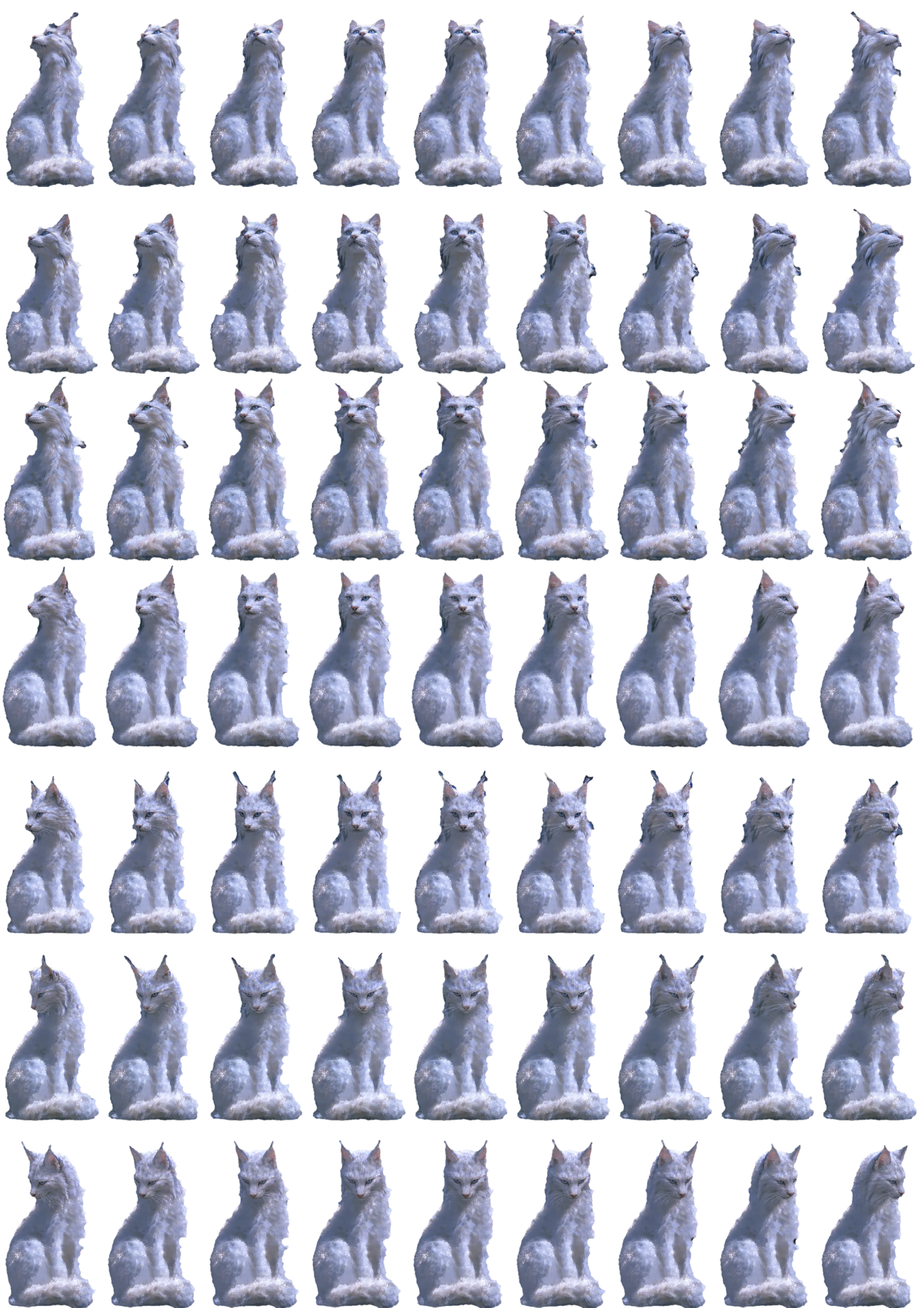
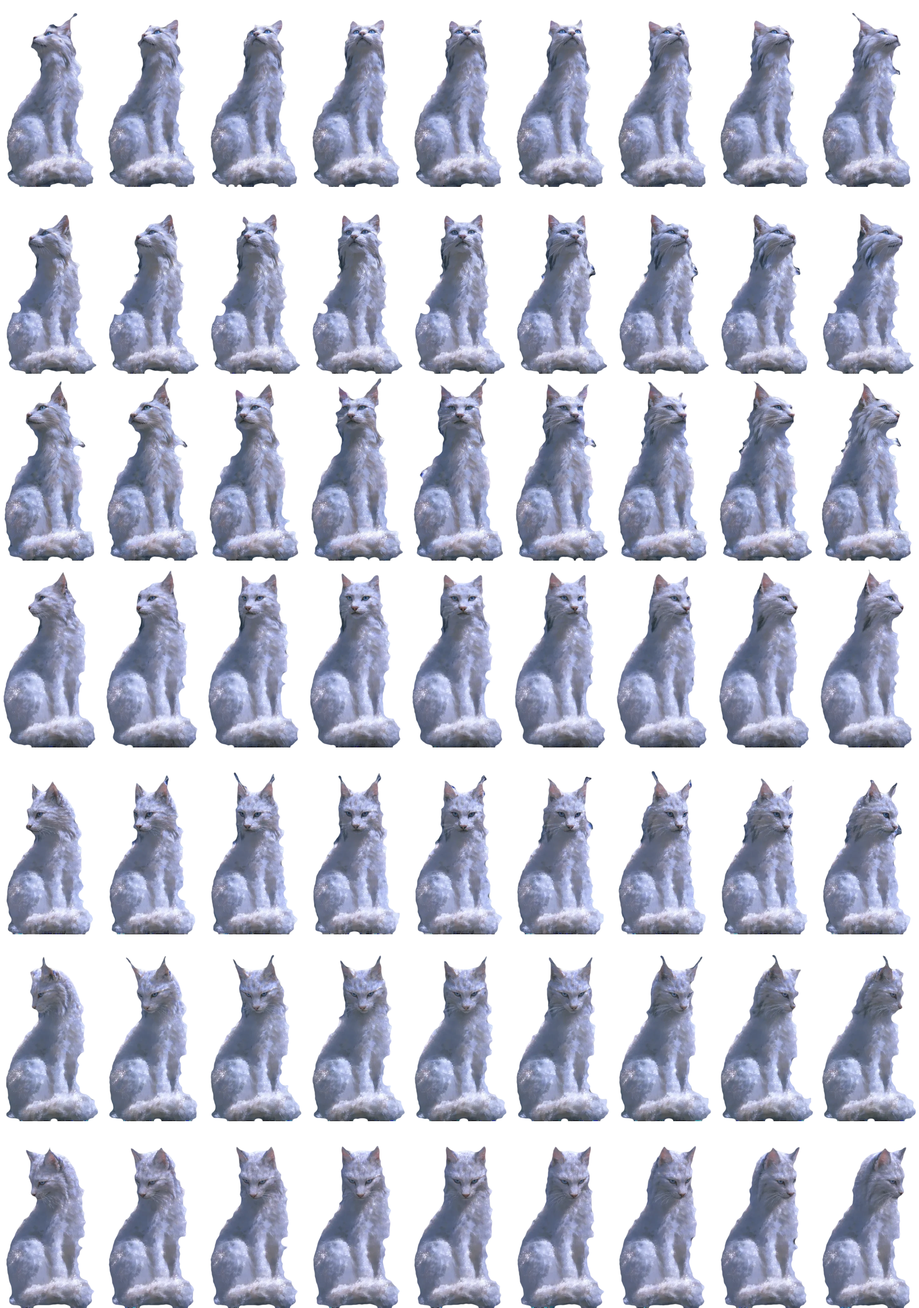
Smooth the lynx's cut-out edges
Every frame: mask opened/closed, blurred, pulled ~2 px inward and feathered;
the edge band's colours are inpainted from the interior to remove the dark
fringe left by the original background.

Claude-Session: https://claude.ai/code/session_01XP8uEUBfh4xcbHKibGdJmp

diff --git a/landing/AGENTS.md b/landing/AGENTS.md
@@ -118,7 +118,7 @@ Outside `.scene`, so not distorted:
 - **Warm light on white snow must be a multiply tint**, not `screen`: screen over white stays white, and over the dark sky it paints an orange halo. The snow-light layers' gradient centres are computed in CSS from the layout variables (`--dl-*`, `--nrk-*`, `--dr-*`), so they follow the robot and the book on every breakpoint. Keep them in sync if you change how the book is placed (`PLACE.fx`).
 - **Grading is injected** with `onBeforeCompile`, replacing `#include <dithering_fragment>`, which runs after the sRGB conversion. So the maths is in display sRGB, the same as CSS filters.
 - **Garland light maps are additive canvases** with ~45 lamps. Per-lamp alphas look tiny (0.02–0.1) on purpose: higher values saturate to yellow-white or paint a large orange halo on the sky.
-- **The lynx sprite** was repaired. The original cut-out had holes, so its mask was closed and filled, and the holes inpainted. Check any replacement sheet for holes, because they show as flicker when the head turns.
+- **The lynx sprite** was repaired. The original cut-out had holes and ragged edges, so its mask was closed, filled, smoothed and feathered (~2 px inward), and the edge colours were inpainted from the interior to remove the old background fringe. Check any replacement sheet for holes, because they show as flicker when the head turns.
 - **Accessibility:**
   - Respect `prefers-reduced-motion`. The CSS turns off animations, transitions and the warp; the JS skips the book's spring, idle nudges and the warp animation.
   - Keep the card reachable by keyboard: Tab to `.book-hit` opens it, Esc closes it.
